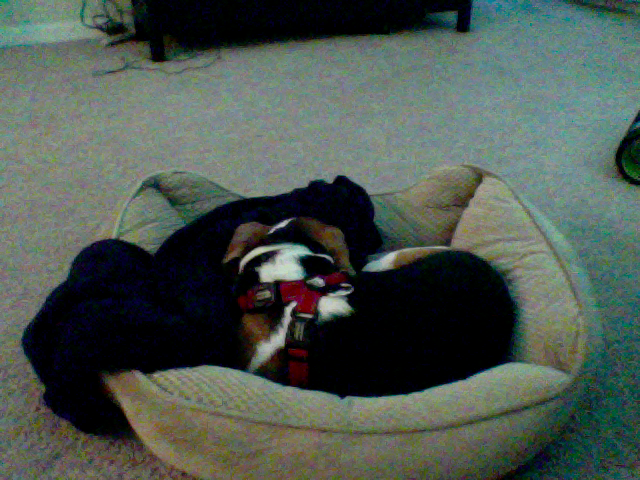
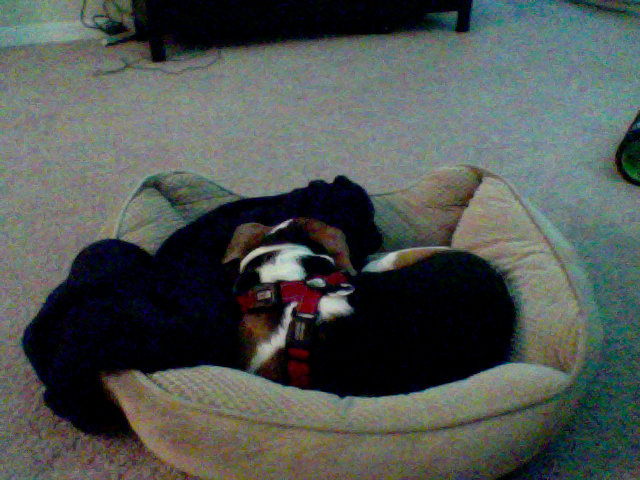
update at Month05Day13Time09:42

Changed region(s): [[0.0, 0.0, 1.0, 1.0]]

diff --git a/index.html b/index.html
@@ -39,8 +39,8 @@
       <!-- Example row of columns -->
       <div class="row">
         <div class="col-md-4">
-	<p>This picture was updated at Month05Day13Time09:41</p>
-		<img src="3_pic.png" />
+	<p>This picture was updated at Month05Day13Time09:42</p>
+		<img src="2_pic.png" />
         </div>
       </div>
 
